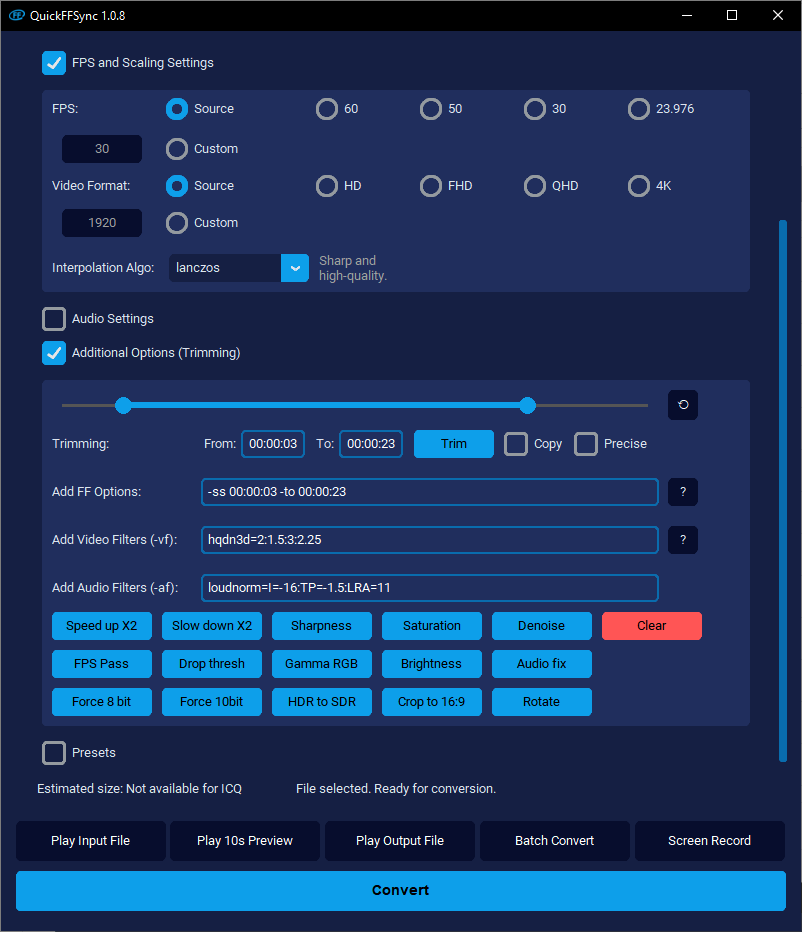
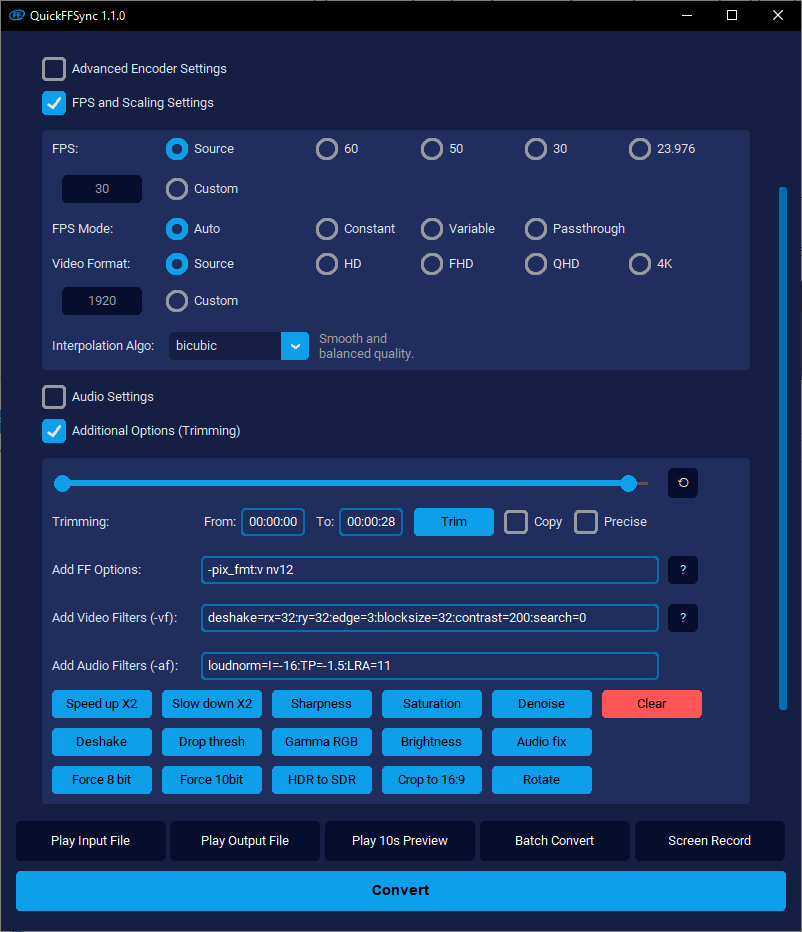
Release 1.1.0

diff --git a/QuickFFSync.py b/QuickFFSync.py
@@ -537,7 +537,7 @@ class VideoConverterApp:
         self.batch_files = []
         self.video_metadata_cache = {}
         self.master = master
-        master.title("QuickFFSync 1.0.9")
+        master.title("QuickFFSync 1.1.0")
         master.geometry("800x700")
         master.minsize(800, 700)
         master.maxsize(800, 900)
@@ -655,6 +655,7 @@ class VideoConverterApp:
         # FPS and Scaling Settings
         self.fps_option.trace_add("write", lambda *args: self._on_setting_changed())
         self.custom_fps.trace_add("write", lambda *args: self._on_setting_changed())
+        self.fps_mode.trace_add("write", lambda *args: self._on_setting_changed())
         self.video_format_option.trace_add(
             "write", lambda *args: self._on_setting_changed()
         )
@@ -687,6 +688,7 @@ class VideoConverterApp:
         self.enable_fps_scale_options = ctk.BooleanVar(value=False)
         self.fps_option = ctk.StringVar(value="source")
         self.custom_fps = ctk.StringVar(value="30")
+        self.fps_mode = ctk.StringVar(value="auto")
         self.video_format_option = ctk.StringVar(value="source")
         self.custom_video_width = ctk.StringVar(value="1920")
         self.interpolation_algo = ctk.StringVar(value="bicubic")
@@ -734,6 +736,8 @@ class VideoConverterApp:
         # Screen recording variables
         self.is_recording = False
         self.recording_process = None
+        # Preview 10s
+        self.preview_process = None
 
     def _create_widgets(self):
         # Build the entire GUI interface
@@ -1242,9 +1246,32 @@ class VideoConverterApp:
         self.custom_fps_entry.grid(row=2, column=0, sticky="w", padx=20)
         self.custom_fps_entry.configure(state="disabled")
 
+        # FPS Mode
+        ctk.CTkLabel(self.fps_scale_options_frame, text="FPS Mode:").grid(
+            row=3, column=0, sticky="w", padx=10, pady=5
+        )
+
+        fps_mode_options = [
+            ("Auto", "auto"),
+            ("Constant", "cfr"),
+            ("Variable", "vfr"),
+            ("Passthrough", "passthrough"),
+        ]
+
+        for i, (text, value) in enumerate(fps_mode_options):
+            rb = ctk.CTkRadioButton(
+                self.fps_scale_options_frame,
+                text=text,
+                variable=self.fps_mode,
+                value=value,
+                fg_color=ACCENT_BLUE,
+                hover_color=HOVER_BLUE,
+            )
+            rb.grid(row=3, column=i + 1, sticky="w", padx=2)
+
         # Video Format
         ctk.CTkLabel(self.fps_scale_options_frame, text="Video Format:").grid(
-            row=3, column=0, sticky="w", padx=10, pady=2
+            row=4, column=0, sticky="w", padx=10, pady=2
         )
         video_format_options = [
             ("Source", "source"),
@@ -1264,7 +1291,7 @@ class VideoConverterApp:
                 fg_color=ACCENT_BLUE,
                 hover_color=HOVER_BLUE,
             )
-            rb.grid(row=3, column=i + 1, sticky="w", padx=2)
+            rb.grid(row=4, column=i + 1, sticky="w", padx=2)
 
         # Custom Video Format
         rb_custom_video = ctk.CTkRadioButton(
@@ -1276,7 +1303,7 @@ class VideoConverterApp:
             fg_color=ACCENT_BLUE,
             hover_color=HOVER_BLUE,
         )
-        rb_custom_video.grid(row=4, column=1, sticky="w", padx=2, pady=10)
+        rb_custom_video.grid(row=5, column=1, sticky="w", padx=2, pady=10)
 
         self.custom_video_width_entry = ctk.CTkEntry(
             self.fps_scale_options_frame,
@@ -1287,12 +1314,12 @@ class VideoConverterApp:
             text_color=PLACEHOLDER_COLOR,
             border_color=ACCENT_DEEPBLUE,
         )
-        self.custom_video_width_entry.grid(row=4, column=0, sticky="w", padx=20)
+        self.custom_video_width_entry.grid(row=5, column=0, sticky="w", padx=20)
         self.custom_video_width_entry.configure(state="disabled")
 
         # Interpolation
         ctk.CTkLabel(self.fps_scale_options_frame, text="Interpolation Algo:").grid(
-            row=5, column=0, sticky="w", padx=10, pady=10
+            row=6, column=0, sticky="w", padx=10, pady=10
         )
 
         self.interpolation_description = ctk.StringVar(
@@ -1312,7 +1339,7 @@ class VideoConverterApp:
             dropdown_fg_color=SECONDARY_BG,
             dropdown_hover_color=ACCENT_BLUE,
         )
-        interp_option_menu.grid(row=5, column=1, sticky="ew", padx=5, pady=2)
+        interp_option_menu.grid(row=6, column=1, sticky="ew", padx=5, pady=2)
 
         ctk.CTkLabel(
             self.fps_scale_options_frame,
@@ -1321,7 +1348,7 @@ class VideoConverterApp:
             wraplength=100,
             anchor="w",
             justify="left",
-        ).grid(row=5, column=2, sticky="w", padx=5)
+        ).grid(row=6, column=2, sticky="w", padx=5)
 
         # Audio Settings Toggle
         audio_frame_toggle = ctk.CTkCheckBox(
@@ -1669,11 +1696,13 @@ class VideoConverterApp:
             row=6, column=0, columnspan=3, sticky="w", padx=10, pady=(0, 10)
         )
 
-        # FPS passtrough button
+        # Deshake video
         ctk.CTkButton(
             quick_buttons_frame_2,
-            text="FPS Pass",
-            command=lambda: self._add_additional_option("-fps_mode passthrough"),
+            text="Deshake",
+            command=lambda: self._add_video_filter(
+                "deshake=rx=32:ry=32:edge=3:blocksize=32:contrast=200:search=0"
+            ),
             fg_color=ACCENT_BLUE,
             hover_color=HOVER_BLUE,
             text_color=TEXT_COLOR_B,
@@ -1876,17 +1905,6 @@ class VideoConverterApp:
         self.play_input_button.pack(side="left", expand=True, fill="x", padx=(0, 2))
         self.play_input_button.configure(command=self._play_input_file)
 
-        self.play10s_button = ctk.CTkButton(
-            self.play_buttons_frame,
-            text="Play 10s Preview",
-            fg_color=ACCENT_DEEPBLUE,
-            hover_color=HOVER_DEEPBLUE,
-            text_color=TEXT_COLOR_W,
-            height=40,
-        )
-        self.play10s_button.pack(side="left", expand=True, fill="x", padx=(2, 2))
-        self.play10s_button.configure(command=self._create_10s_preview)
-
         self.play_output_button = ctk.CTkButton(
             self.play_buttons_frame,
             text="Play Output File",
@@ -1897,6 +1915,17 @@ class VideoConverterApp:
         )
         self.play_output_button.pack(side="left", expand=True, fill="x", padx=(2, 2))
         self.play_output_button.configure(command=self._play_output_file)
+
+        self.play10s_button = ctk.CTkButton(
+            self.play_buttons_frame,
+            text="Play 10s Preview",
+            fg_color=ACCENT_DEEPBLUE,
+            hover_color=HOVER_DEEPBLUE,
+            text_color=TEXT_COLOR_W,
+            height=40,
+        )
+        self.play10s_button.pack(side="left", expand=True, fill="x", padx=(2, 2))
+        self.play10s_button.configure(command=self._create_10s_preview)
 
         self.batch_convert_button = ctk.CTkButton(
             self.play_buttons_frame,
@@ -1992,6 +2021,27 @@ class VideoConverterApp:
         ):
             self.batch_converter_window.cancel_batch_conversion()
 
+    def _cancel_preview(self):
+        """Cancel preview creation"""
+        if self.is_creating_preview and self.preview_process:
+            try:
+                self.preview_process.terminate()
+                self.preview_process.wait(timeout=2)
+            except (subprocess.TimeoutExpired, Exception):
+                try:
+                    self.preview_process.kill()
+                except Exception:
+                    pass
+
+            self.is_creating_preview = False
+            self.preview_process = None
+            self.status_text.set("Preview creation cancelled")
+            self.ffmpeg_output.set("")
+            self.progress_frame.grid_remove()
+            self.play10s_button.configure(
+                text="Play 10s Preview", fg_color=ACCENT_BLUE, hover_color=HOVER_BLUE
+            )
+
     def _open_batch_converter(self):
         if (
             not hasattr(self, "batch_converter_window")
@@ -2080,7 +2130,7 @@ class VideoConverterApp:
         else:
             command.extend(["-rc:v", self.rc.get(), "-b:v", f"{self.bitrate.get()}k"])
 
-        # No audio
+        # Constant FPS + No audio
         command.extend(["-fps_mode", "cfr", "-an", output_file])
 
         # PRINT THE COMMAND TO CONSOLE
@@ -2222,11 +2272,18 @@ class VideoConverterApp:
 
     def _create_10s_preview(self):
         """Create a 10-second preview with current settings"""
+        if self.is_creating_preview:
+            # If preview is being created, cancel it
+            self._cancel_preview()
+            return
+
+        self.preview_process = None
+
         if self.trim_streamcopy.get():
             messagebox.showerror("Error", "Preview is not available in Streamcopy mode")
             return
 
-        if self.is_converting or self.is_creating_preview:
+        if self.is_converting:
             messagebox.showerror("Error", "Please wait until current process completes")
             return
 
@@ -2348,10 +2405,16 @@ class VideoConverterApp:
             self.progress_label.configure(text="0%")
             self.progress_frame.grid()
 
+            # Update button to show cancel state
+            self.play10s_button.configure(
+                text="Cancel Preview", fg_color=ACCENT_RED, hover_color=HOVER_RED
+            )
+
             # Start encoding in separate thread
             preview_thread = Thread(
                 target=self._run_preview_encoding, args=(encode_cmd, temp_encoded)
             )
+            preview_thread.daemon = True
             preview_thread.start()
 
         except Exception as e:
@@ -2627,6 +2690,10 @@ class VideoConverterApp:
                 if custom_fps:
                     self.custom_fps.set(custom_fps)
 
+                fps_mode = settings.get("fps_mode", "")
+                if fps_mode:
+                    self.fps_mode.set(fps_mode)
+
                 video_format_option = settings.get("video_format_option", "")
                 if video_format_option:
                     self.video_format_option.set(video_format_option)
@@ -2735,9 +2802,10 @@ class VideoConverterApp:
                 # FPS and scaling settings
                 "fps_option": self.fps_option.get(),
                 "custom_fps": self.custom_fps.get(),
+                "fps_mode": self.fps_mode.get(),
                 "video_format_option": self.video_format_option.get(),
                 "custom_video_width": self.custom_video_width.get(),
-                "version": "1.0.9",
+                "version": "1.1.0",
             }
 
             with open(settings_file, "w", encoding="utf-8") as file:
@@ -3044,6 +3112,9 @@ class VideoConverterApp:
         # Add video filters if any
         if vf_filters:
             command.extend(["-vf", ",".join(vf_filters)])
+
+        if self.fps_mode.get() != "auto":
+            command.extend(["-fps_mode", self.fps_mode.get()])
 
         # Add encoder settings based on mode
         codec_map = {"hevc": "hevc_qsv", "av1": "av1_qsv", "vp9": "vp9_qsv"}
@@ -4185,22 +4256,37 @@ class VideoConverterApp:
                 encoding="utf-8",
                 errors="replace",
             )
+            self.preview_process = process
 
             # Process output in real-time
             for line in process.stdout:
+                if not self.is_creating_preview:  # Check if cancelled
+                    process.terminate()
+                    break
+
                 if line:
-                    self.master.after(0, lambda: self.ffmpeg_output.set(line))
-                    self.master.after(0, lambda: self._update_preview_progress(line))
+                    self.master.after(
+                        0, lambda line_text=line: self.ffmpeg_output.set(line_text)
+                    )
+                    self.master.after(
+                        0,
+                        lambda line_text=line: self._update_preview_progress(line_text),
+                    )
 
             process.wait()
 
-            if process.returncode == 0:
+            if process.returncode == 0 and self.is_creating_preview:
                 self.master.after(
                     0, lambda: self.status_text.set("Preview created successfully!")
                 )
                 self.master.after(0, lambda: self.ffmpeg_output.set(""))
                 # Play the result
-                os.startfile(output_path)
+                if os.path.exists(output_path):
+                    os.startfile(output_path)
+            elif not self.is_creating_preview:
+                self.master.after(
+                    0, lambda: self.status_text.set("Preview creation cancelled")
+                )
             else:
                 self.master.after(
                     0, lambda: self.status_text.set("Preview creation failed!")
@@ -4212,6 +4298,16 @@ class VideoConverterApp:
         finally:
             self.master.after(0, lambda: self.progress_frame.grid_remove())
             self.is_creating_preview = False
+            self.preview_process = None
+            # Reset button to normal state
+            self.master.after(
+                0,
+                lambda: self.play10s_button.configure(
+                    text="Play 10s Preview",
+                    fg_color=ACCENT_BLUE,
+                    hover_color=HOVER_BLUE,
+                ),
+            )
 
     def _update_preview_progress(self, line):
         """Update progress for preview encoding"""

diff --git a/README.md b/README.md
@@ -103,8 +103,8 @@ You can compile the Python script into a standalone Windows executable (`.exe`) 
       --include-data-file=qff-about.txt=./qff-about.txt ^
       --include-data-file=qff-license.txt=./qff-license.txt ^
       --product-name="QuickFFSync" ^
-      --product-version="1.0.9" ^
-      --file-version="1.0.9" ^
+      --product-version="1.1.0" ^
+      --file-version="1.1.0" ^
       --file-description="QuickFFSync" ^
       --company-name="Deepseek Enjoyer" ^
       --copyright="Copyright (C) 2025 hadouken" ^

diff --git a/CHANGELOG.md b/CHANGELOG.md
@@ -1,5 +1,10 @@
 # QuickFFSync - Changelog
 
+## [1.1.0] - 2025-10-25
+- Added "FPS Mode";
+- Added "Cancel" for "Play 10s Preview" button;
+- Added "Deshake" filter button.
+
 ## [1.0.9] - 2025-10-18
 - Screen recording now respects the "Preset" parameter value;
 - The clipboard is now preserved even after closing the program (for example, a copied ffmpeg command).
